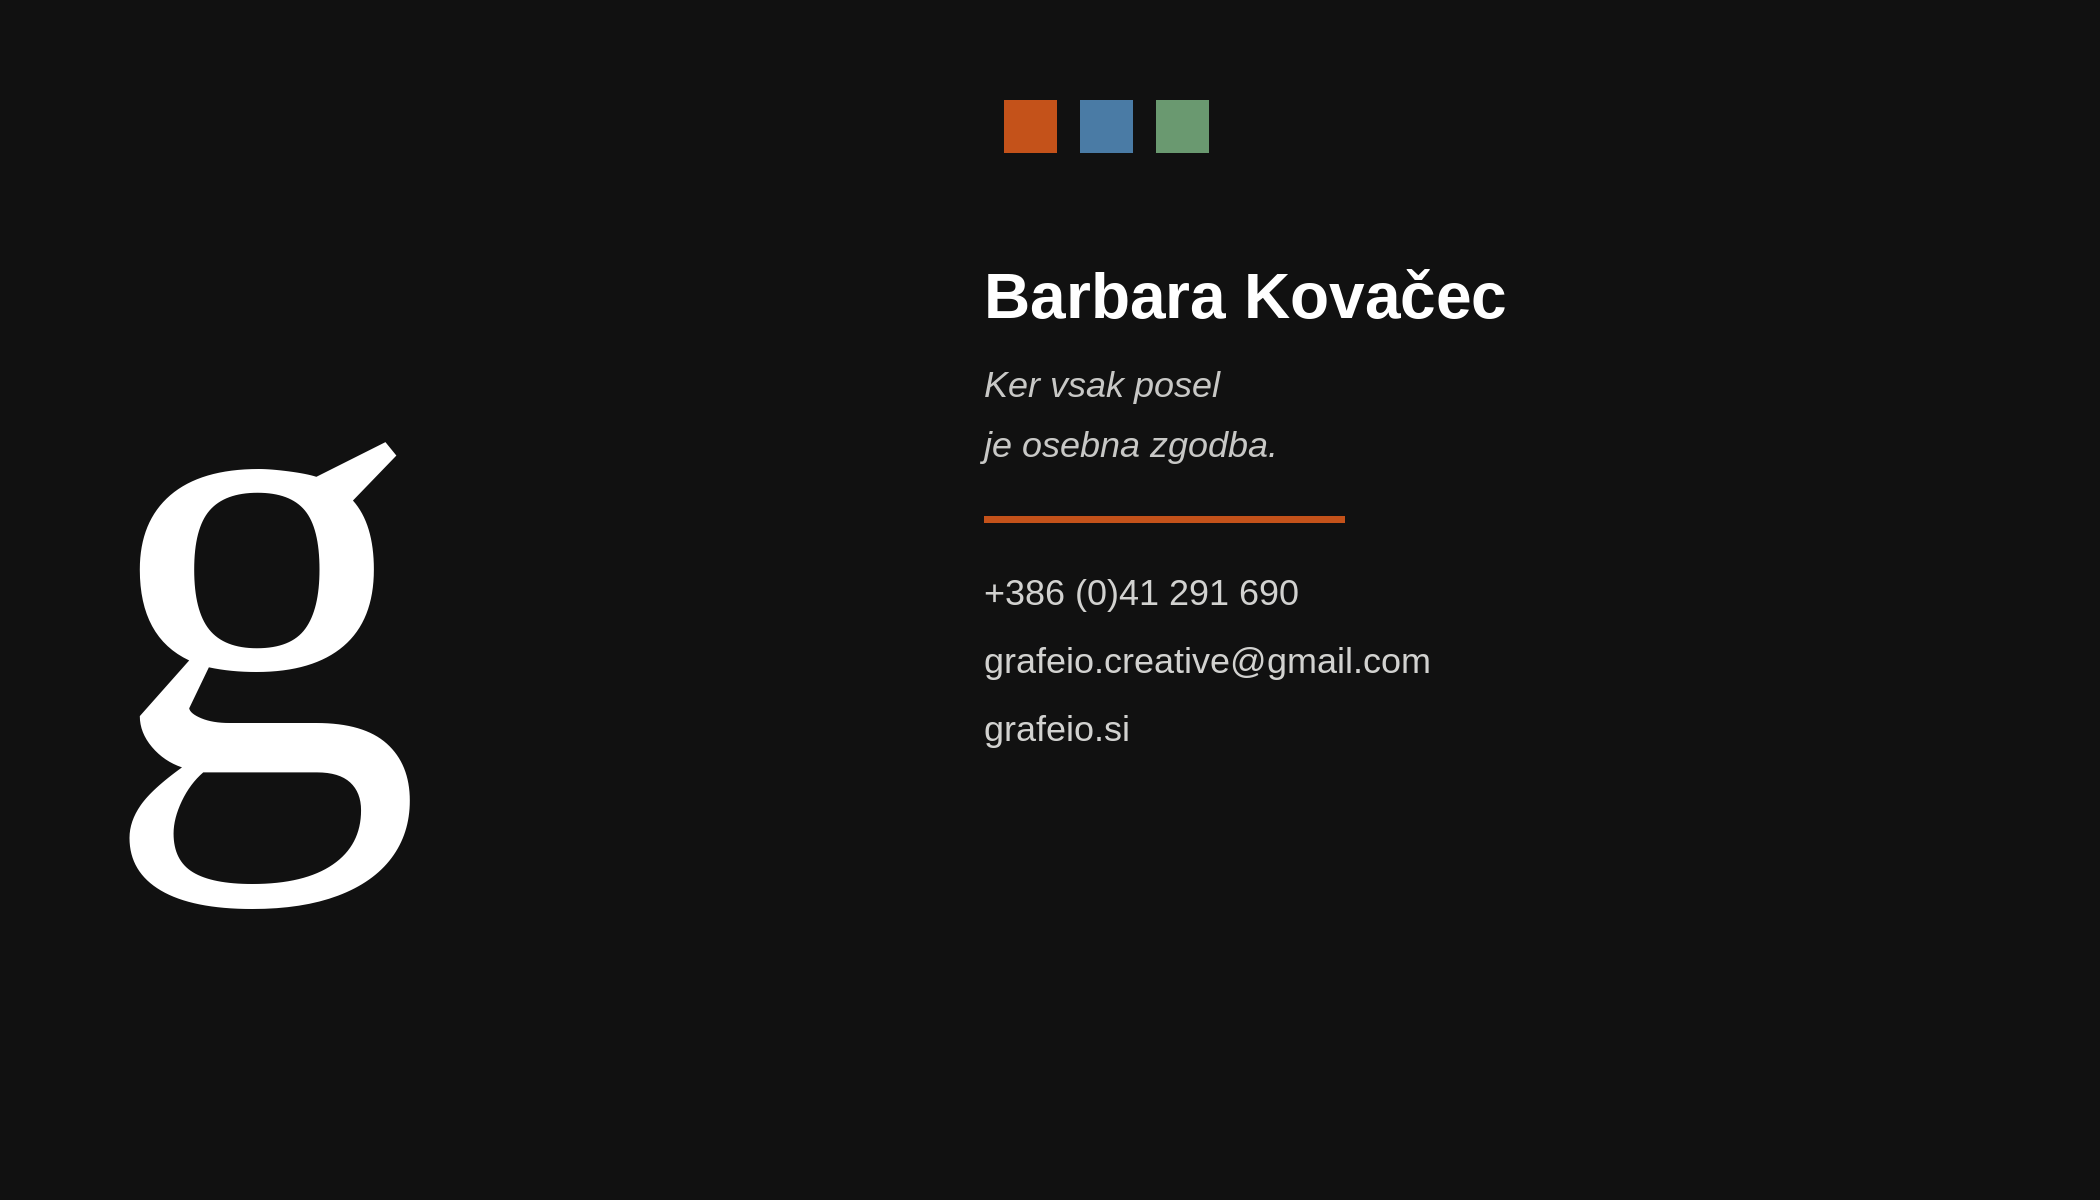
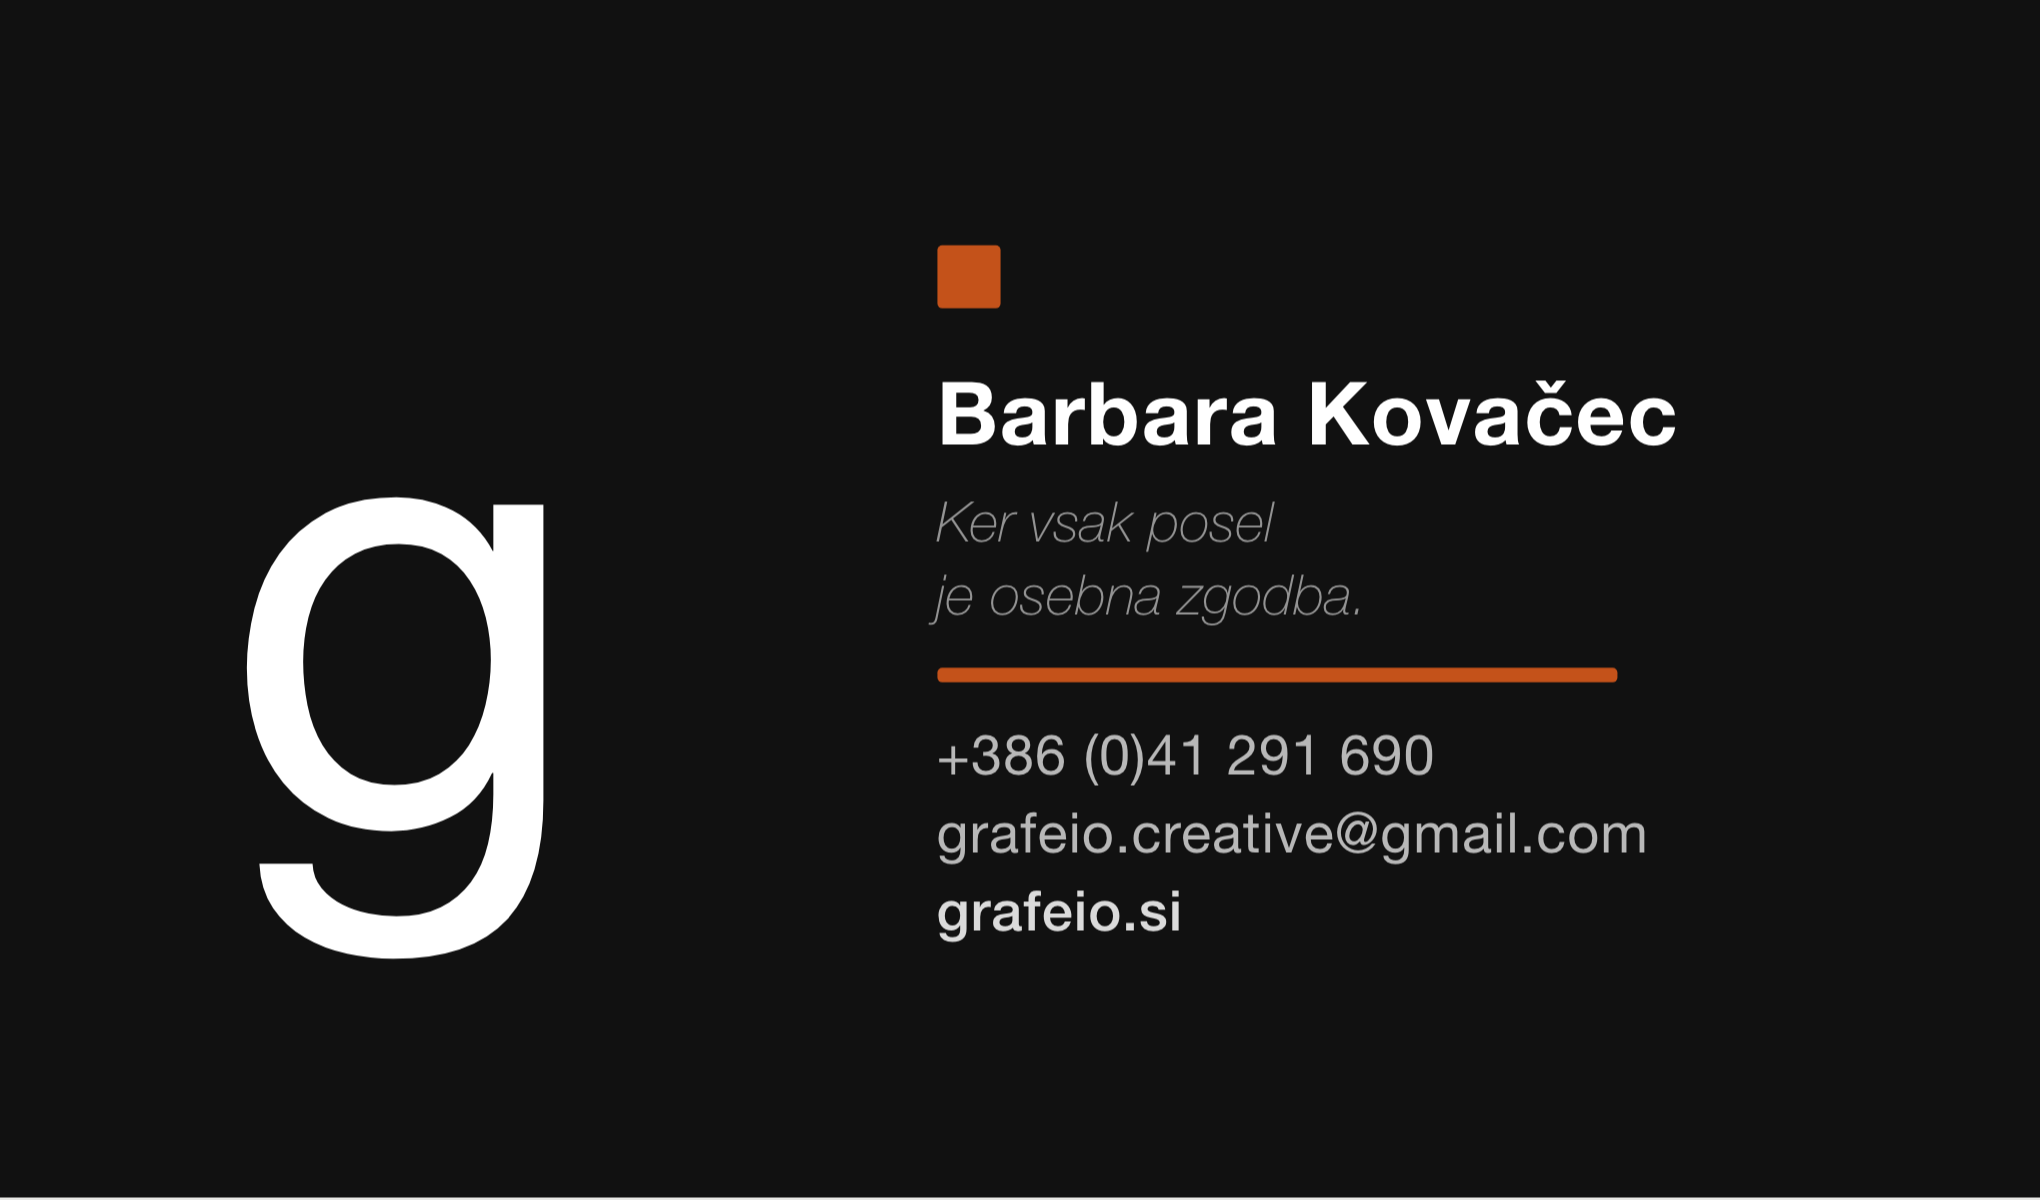
Fix link-preview og:images and regenerate with current branding
Verified against live requests as SMS/iMessage, Viber, Telegram,
Signal and Messenger link-preview crawlers would see them:

- barbara.html, miran.html and grafeio.html were already publicly
  reachable and returned valid og:/twitter: tags -- confirmed with
  live HTTP checks (title, og:image, 200 status, correct content-type).
- mojca.html is password-gated at the edge (Netlify edge function);
  an unauthenticated request -- which is what every preview crawler
  makes -- gets the login page with zero og: tags, so its preview
  cannot work while the page stays locked. Left as-is (confirmed with
  the user): privacy takes priority over having a preview there.
- barbara/mojca/miran's og:image files were stale marketing renders
  using the OLD serif "g" logo, predating the "sans-serif g, not
  serif" brand fix (commit 0b4e8db) -- so shared links were showing
  outdated branding. Regenerated all three directly from the live
  card markup (Playwright, high deviceScaleFactor for crisp text
  instead of a blurry raster upscale) so the preview image is always
  pixel-identical to the real card. New size 2040x1200 (matches the
  card's actual 1.7:1 aspect ratio, was previously an unrelated
  2100x1200); og:image:width updated to match.
- grafeio.html was missing og:image:type/width/height (present on
  the other three) -- added, matching its actual 1200x630 og-image.png.

If the card content or logo ever changes again, these three PNGs
[…]

diff --git a/miran.html b/miran.html
@@ -37,7 +37,7 @@
 <meta property="og:description" content="Poslovni zastopnik, ki skrbi za dogovore. Gradnik odličnosti.">
 <meta property="og:image" content="https://grafeio.si/vizitke/vizitka-miran-front.png">
 <meta property="og:image:type" content="image/png">
-<meta property="og:image:width" content="2100">
+<meta property="og:image:width" content="2040">
 <meta property="og:image:height" content="1200">
 <meta name="twitter:card" content="summary_large_image">
 <meta name="twitter:image" content="https://grafeio.si/vizitke/vizitka-miran-front.png">

diff --git a/barbara.html b/barbara.html
@@ -37,7 +37,7 @@
 <meta property="og:description" content="Ker vsak posel je osebna zgodba. Gradnik odličnosti.">
 <meta property="og:image" content="https://grafeio.si/vizitke/vizitka-barbara-front.png">
 <meta property="og:image:type" content="image/png">
-<meta property="og:image:width" content="2100">
+<meta property="og:image:width" content="2040">
 <meta property="og:image:height" content="1200">
 <meta name="twitter:card" content="summary_large_image">
 <meta name="twitter:image" content="https://grafeio.si/vizitke/vizitka-barbara-front.png">

diff --git a/mojca.html b/mojca.html
@@ -37,7 +37,7 @@
 <meta property="og:description" content="Kompleksno postane preprosto. Gradnik odličnosti.">
 <meta property="og:image" content="https://grafeio.si/vizitke/vizitka-mojca-front.png">
 <meta property="og:image:type" content="image/png">
-<meta property="og:image:width" content="2100">
+<meta property="og:image:width" content="2040">
 <meta property="og:image:height" content="1200">
 <meta name="twitter:card" content="summary_large_image">
 <meta name="twitter:image" content="https://grafeio.si/vizitke/vizitka-mojca-front.png">

diff --git a/grafeio.html b/grafeio.html
@@ -36,6 +36,9 @@
 <meta property="og:title" content="GRAFEIO · Splošni kontakt">
 <meta property="og:description" content="Splošni kontakt GRAFEIO. Gradnik odličnosti.">
 <meta property="og:image" content="https://grafeio.si/og-image.png">
+<meta property="og:image:type" content="image/png">
+<meta property="og:image:width" content="1200">
+<meta property="og:image:height" content="630">
 <meta name="twitter:card" content="summary_large_image">
 <meta name="twitter:image" content="https://grafeio.si/og-image.png">
 <style>
